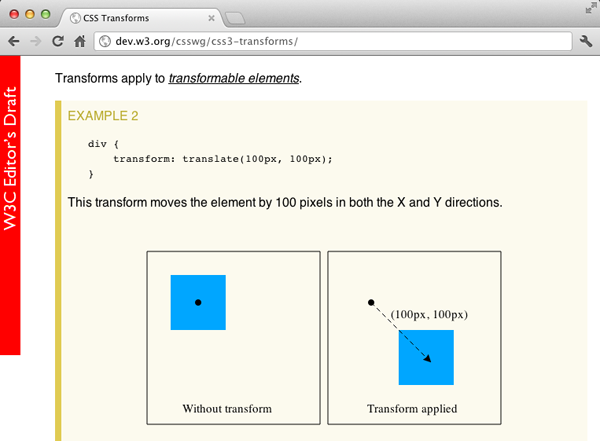
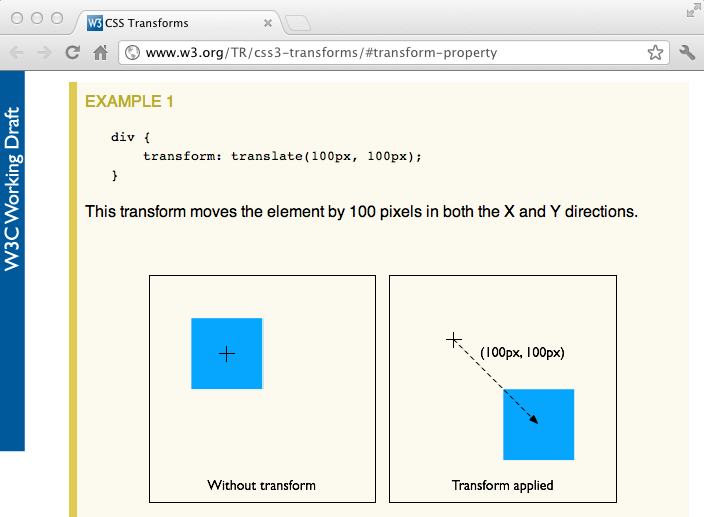
added more details about prefixfree & update spec screenshots to be working drafts instead of editor drafts

diff --git a/presentations/test-the-web-forward-tutorial/index.html b/presentations/test-the-web-forward-tutorial/index.html
@@ -534,10 +534,10 @@
                          <img src="assets/images/failingRefTest.png">
                     </section>
                     
-                     <section>
+                     <section data-state="screenshotPage">
                          <h2>Vendor prefixes</h2>
                          
-                         <section>
+                         <section data-state="screenshotPage">
                              <br>
                              <ul>
                                  <li>You may need to add a vendor prefix to the CSS property you're developing tests</li>
@@ -548,7 +548,7 @@
                              <p class="font5">Press the down-arrow for a vendor-prefixed version of this tutorial</p>
                         </section>
                         
-                        <section>
+                        <section data-state="screenshotPage">
                             <pre>
                             <code class="html">
                               <span class="expand2">
@@ -566,13 +566,30 @@
                           }</span> 
                             </code>
                             </pre>
+                            <p class="font5">Press the down-arrow for an alternative to adding vendor prefixes manually</p>
                         </section>
-                        <section>
-                            <br>
-                            <p>As an alternative, you can use -prefix-free during test development</p>
-                            <br>
-                            <a href="http://leaverou.github.com/prefixfree/">http://leaverou.github.com/prefixfree</a>
-                        </section>
+                        <section data-state="screenshotPage">
+                              <br>
+                              <p>We recommend a script to use during test development:</p>
+                              <p style="font-size: 18pt">
+                                  <a href="http://leaverou.github.com/prefixfree/">http://leaverou.github.com/prefixfree</a>
+                              </p>
+                              <p>The prefixfree.jsapi.js extension can be used for unprefixed JS APIs tests:</p>
+                              <p style="font-size: 18pt">
+                                  <a href="https://github.com/LeaVerou/prefixfree/tree/gh-pages/plugins">https://github.com/LeaVerou/prefixfree/tree/gh-pages/plugins</a>
+                              </p>
+                              <p class="font4">During test development, include the scripts is your tests like this:</p>
+                              <pre>
+                              <code class="html">
+          <span class="expand2">
+            &lt;-- Remember to remove before pushing to W3C test suite --&gt;
+
+            &lt;script src="prefixfree.js"&gt;&lt;/script&gt;
+            &lt;script src="plugins/prefixfree.jsapi.js"&gt;&lt;/script&gt;
+        </span>    				        
+              			    </code>
+              			    </pre>
+                          </section>
                             
                         </section>
                         

diff --git a/presentations/test-the-web-forward-overview/index.html b/presentations/test-the-web-forward-overview/index.html
@@ -387,9 +387,28 @@
                   
                   <section data-state="expandPageWide">
                       <br>
-                      <p>As an alternative, you can use -prefix-free during test development</p>
-                      <br>
-                      <a href="http://leaverou.github.com/prefixfree/">http://leaverou.github.com/prefixfree</a>
+                      <p>We recommend a script to use during test development:</p>
+                      <p style="font-size: 18pt">
+                          <a href="http://leaverou.github.com/prefixfree/">http://leaverou.github.com/prefixfree</a>
+                      </p>
+                      <p>The prefixfree.jsapi.js extension can be used for unprefixed JS APIs tests:</p>
+                      <p style="font-size: 18pt">
+                          <a href="https://github.com/LeaVerou/prefixfree/tree/gh-pages/plugins">https://github.com/LeaVerou/prefixfree/tree/gh-pages/plugins</a>
+                      </p>
+                      <pre>
+                      <code class="html">
+  <span class="expand2">
+        . . .
+        
+        &lt;-- Remember to remove before pushing to W3C test suite --&gt;
+            
+        &lt;script src="prefixfree.js"&gt;&lt;/script&gt;
+        &lt;script src="plugins/prefixfree.jsapi.js"&gt;&lt;/script&gt;
+        
+        . . .
+  </span>    				        
+      			    </code>
+      			    </pre>
                   </section>
                       
                   </section>
